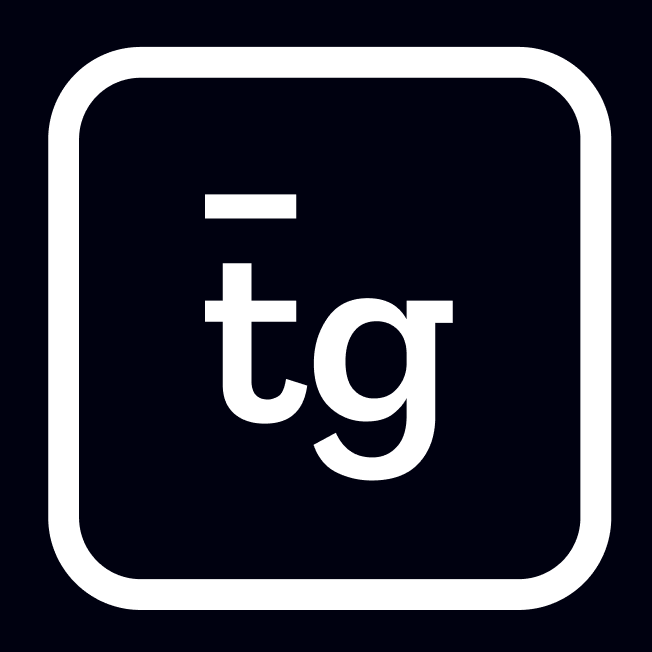
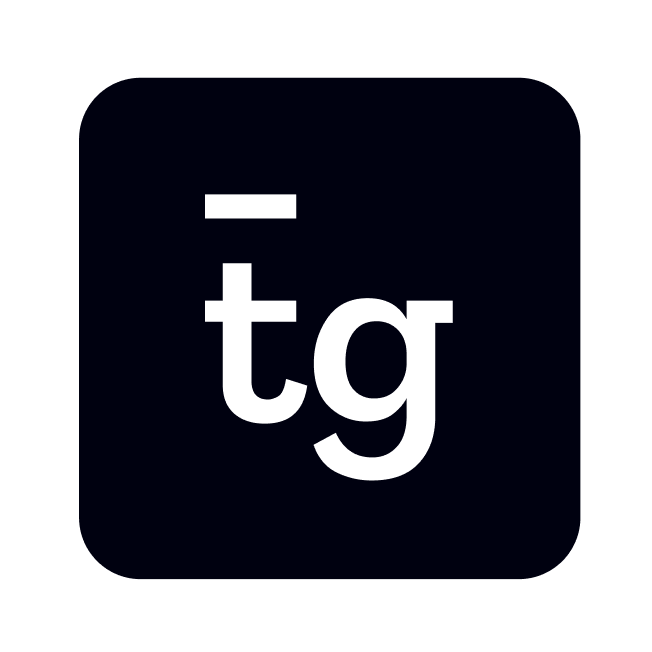
Updated top nav, WIP.

Changed region(s): [[0.0, 0.0, 1.0, 1.0]]

diff --git a/web-app/src/components/top_nav.tsx b/web-app/src/components/top_nav.tsx
@@ -5,12 +5,47 @@ import './top_nav.css';
 
 // component imports
 import NavLogo from './nav_logo';
+
+interface Props {
+}
+
+interface State {
+    hide_nav_expand: string;
+}
  
-class TopNav extends React.Component {
+class TopNav extends React.Component<Props, State> {
+    state = {
+        hide_nav_expand: 'hidden'
+    };
+
+    // toggle hide-nav
+    hide_nav_toggle = () => {
+        if (this.state.hide_nav_expand == 'hidden') {
+            this.setState({hide_nav_expand: 'show'});
+        } else {
+            this.setState({hide_nav_expand: 'hidden'});
+        }
+    };
+
     render() { 
         return (
-            <nav id='top-nav'>
-                <NavLogo />
+            <nav id="top-nav">
+                <div id="top-nav-left">
+                    <NavLogo />
+                </div>
+                <div id="top-nav-right">
+                    <nav id="hide-nav" 
+                        className={this.state.hide_nav_expand} 
+                        onClick={this.hide_nav_toggle}>
+                        <svg xmlns="http://www.w3.org/2000/svg" width="32" height="32" fill="currentColor" className="bi bi-list" viewBox="0 0 16 16">
+                            <path fill-rule="evenodd" d="M2.5 12a.5.5 0 0 1 .5-.5h10a.5.5 0 0 1 0 1H3a.5.5 0 0 1-.5-.5zm0-4a.5.5 0 0 1 .5-.5h10a.5.5 0 0 1 0 1H3a.5.5 0 0 1-.5-.5zm0-4a.5.5 0 0 1 .5-.5h10a.5.5 0 0 1 0 1H3a.5.5 0 0 1-.5-.5z"/>
+                        </svg>
+                    </nav>
+                    <nav id="nav-links">
+                        <a href="#" className={'nav-link ' + this.state.hide_nav_expand} id="nav-about-us">Our Team</a>
+                        <a href='#' className={'nav-link ' + this.state.hide_nav_expand} id="nav-features">Features</a>
+                    </nav>
+                </div>
             </nav>
         );
     }

diff --git a/web-app/src/components/top_nav.css b/web-app/src/components/top_nav.css
@@ -2,5 +2,89 @@
 
 #top-nav {
     height: var(--navbar-height);
+    margin-top: var(--navbar-margin);
     z-index: 100;
+    display: flex;
+    justify-content: space-between;
+    align-items: center;
+}
+
+#top-nav a {
+    color: var(--text-color-1);
+    text-decoration: none;
+    font-size: var(--text-md);
+}
+
+#top-nav #top-nav-right {
+    display: flex;
+    align-items: center;
+    gap: 1rem;
+    font-weight: 500;
+    font-family: 'Roboto', sans-serif;
+}
+
+#top-nav #nav-links {
+    display: flex;
+    align-items: center;
+}
+
+#top-nav #top-nav-right a {
+    color: var(--brand-color);
+    padding: 0.25rem 1.75rem;
+    padding-bottom: 0.1rem;
+    border-radius: 10rem;
+    transition: all 0.2s ease-in;
+}
+
+#top-nav #top-nav-right a:hover {
+    color: var(--text-color-1);
+    background-color: var(--brand-color);
+}
+
+#top-nav #hide-nav svg {
+    fill: var(--text-color-1);
+    display: none;
+    padding: 0;
+}
+
+#top-nav #hide-nav.show svg {
+    fill: var(--brand-color);
+}
+
+#top-nav #hide-nav {
+    padding: 0.82rem;
+    cursor: pointer;
+    border-radius: 0.5rem;
+    transition: all 0.15s linear;
+}
+
+#top-nav #hide-nav.show {
+    background-color: var(--text-color-1);
+}
+
+/* #top-nav #hide-nav: {
+    background-color: red;
+} */
+
+@media screen and (max-width: 992px) {
+    #top-nav #top-nav-right a {
+        display: none;
+        color: var(--text-color-1);
+    }
+
+    #top-nav #top-nav-right a:hover {
+        color: var(--brand-color);
+        background-color: var(--text-color-1);
+    }
+
+    #top-nav #hide-nav svg {
+        display: block;
+    }
+}
+
+@media screen and (max-width: 576px) {
+    #top-nav {
+        margin-left: 2rem;
+        margin-right: 2rem;
+    }
 }

diff --git a/web-app/src/pages/home/home.css b/web-app/src/pages/home/home.css
@@ -5,6 +5,7 @@
     grid-template-areas: 'left right';
     grid-template-columns: 1fr 1fr;
     gap: 7.5rem;
+    height: calc(100vh - var(--navbar-height)) - var(--navbar-margin);
 }
 
 @media screen and (max-width: 992px) {
@@ -13,7 +14,14 @@
             'left'
             'right';
         grid-template-columns: 1fr;
-        grid-template-rows: 1fr 1fr;
-        gap: 2rem;
+        grid-template-rows: auto auto;
+        gap: 7rem;
+    }
+}
+
+@media screen and (max-width: 576px) {
+    #home {
+        margin: 0 2rem;
+        gap: 4rem;
     }
 }

diff --git a/web-app/src/pages/home/styles/home_right.css b/web-app/src/pages/home/styles/home_right.css
@@ -10,13 +10,21 @@
 
 #home-right p {
     text-decoration: underline;
+    margin-top: -1.5rem;
+}
+
+/* text highlight color */
+@media screen and (min-width: 992px) {
+    #home-right *::selection {
+        color: var(--text-color-1);
+        background-color: var(--brand-color);
+    }
 }
 
 @media screen and (max-width: 992px) {
     #home-right {
         color: var(--text-color-1);
         margin: 0;
-        margin-top: 4rem;
         font-size: var(--text-xxl);
         font-weight: 500;
     }

diff --git a/web-app/src/global_constants.css b/web-app/src/global_constants.css
@@ -5,6 +5,8 @@
     --text-color-1: #fff;
     --text-color-2: var(--brand-color);
 
+    /* === SIZING === */
+
     /* font sizes */
     --text-sm: 1rem;
     --text-md: 1.5rem;
@@ -15,5 +17,11 @@
     --text-xxxxl: 6rem;
 
     /* navbar */
-    --navbar-height: 3.5rem;
+    --navbar-height: 4.25rem;
+    --navbar-margin: 1rem;
+
+
+    /* page height */
+    --page-height: calc(100vh - var(--navbar-height)) - var(--navbar-margin);
+
 }

diff --git a/web-app/src/pages/home/styles/coming_soon.css b/web-app/src/pages/home/styles/coming_soon.css
@@ -4,17 +4,7 @@ h2.coming-soon {
     font-size: var(--text-xxxl);
     font-weight: 600;
     margin: 0;
-    color: white;
-}
-
-h2::selection {
-    color: var(--brand-color);
-    background: var(--text-color-1); /* WebKit/Blink Browsers */
-}
-
-h2::-moz-selection {
-    color: var(--brand-color);
-    background: var(--text-color-1); /* Gecko Browsers */
+    color: var(--text-color-1);
 }
 
 @media screen and (max-width: 992px) {

diff --git a/web-app/src/components/nav_logo.tsx b/web-app/src/components/nav_logo.tsx
@@ -7,7 +7,7 @@ class NavLogo extends React.Component {
     render() { 
         return ( 
             <div className="nav-logo">
-                <img id='nav-logo' src="/tg.png" alt="_tg logo" />
+                <img id='nav-logo' src="/tg_square.png" alt="_tg logo" />
                 {/* <div className='logo-dash'>_</div>
                 <div className='tg'>tg</div> */}
             </div>

diff --git a/web-app/src/index.css b/web-app/src/index.css
@@ -20,6 +20,17 @@ body {
     }
 }
 
+/* Selection color */
+::selection {
+    color: var(--brand-color);
+    background: var(--text-color-1); /* WebKit/Blink Browsers */
+}
+
+::-moz-selection {
+    color: var(--brand-color);
+    background: var(--text-color-1); /* Gecko Browsers */
+}
+
 /* ===== Scrollbar CSS ===== */
 /* Firefox */
 * {

diff --git a/web-app/src/components/nav_logo.css b/web-app/src/components/nav_logo.css
@@ -1,6 +1,6 @@
 @import '../global_constants.css';
 
-.nav-logo {
+/* .nav-logo {
     font-family: 'Zilla Slab', serif;
     font-size: var(--text-xxl);
     color: white;
@@ -15,7 +15,7 @@
 .nav-logo .tg {
     margin-top: -1.9rem;
     font-weight: 500;
-}
+} */
 
 #nav-logo {
     height: var(--navbar-height);

diff --git a/web-app/src/pages/home/styles/home_left.css b/web-app/src/pages/home/styles/home_left.css
@@ -6,3 +6,15 @@
     grid-area: 'left';
     margin-top: 14vh;
 }
+
+@media screen and (max-width: 992px) {
+    #home-left {
+        margin-top: 6rem;
+    }
+}
+
+@media screen and (max-width: 576px) {
+    #home-left {
+        margin-top: 4rem;
+    }
+}

diff --git a/web-app/src/App.tsx b/web-app/src/App.tsx
@@ -11,7 +11,7 @@ import './App.css';
 
 function App() {
   return (
-    <div id='App' className='container'>
+    <div id='App' className='container px-0 py-0'>
         <TopNav />
         <Home />
     </div>
